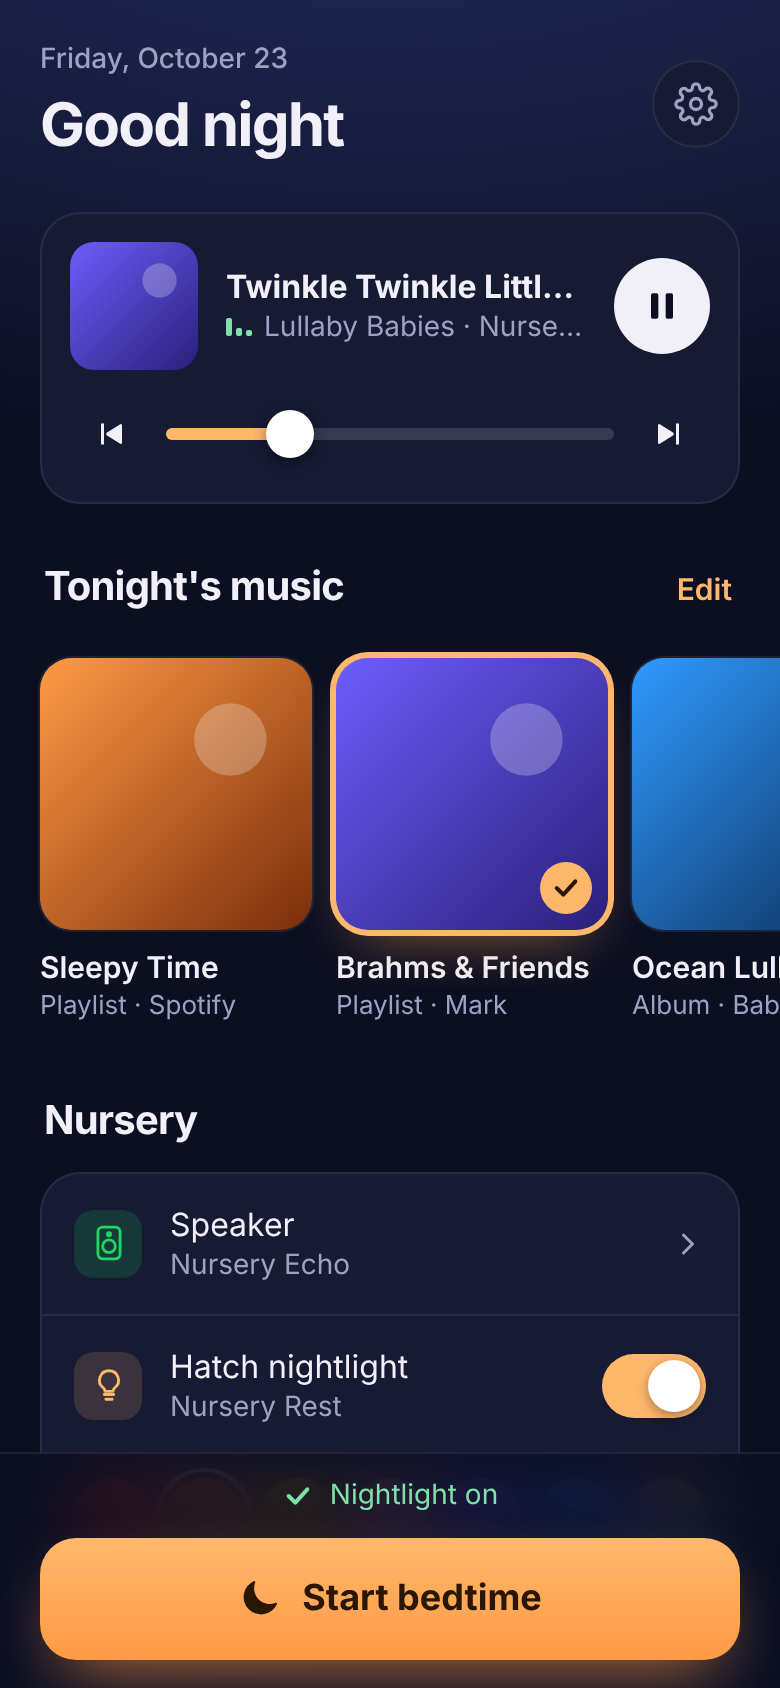
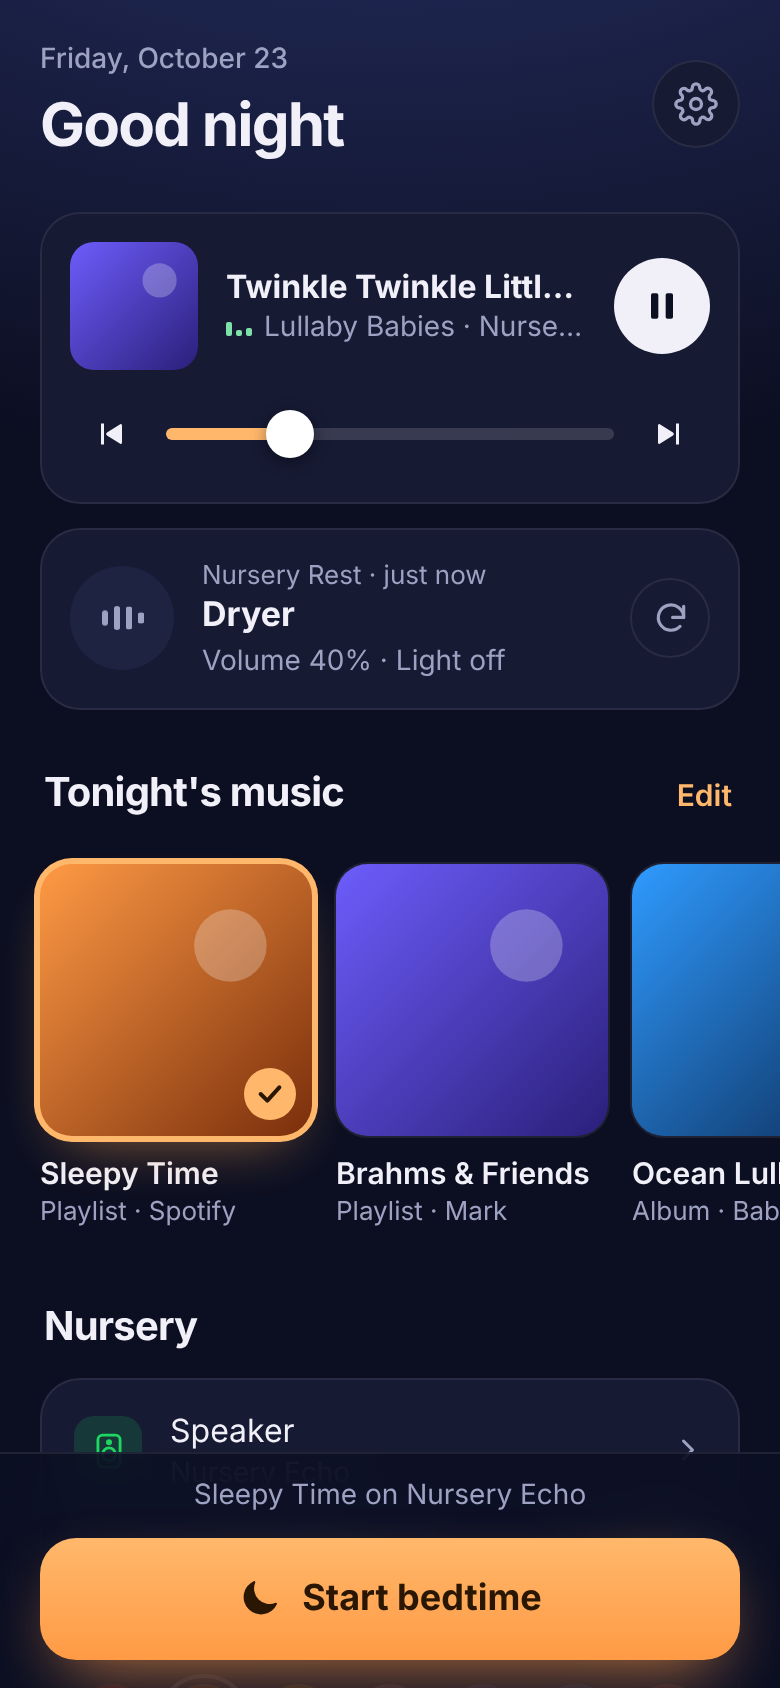
Show what the Hatch is doing right now
New 'On the Hatch' card on the main screen: the current sound by name
(e.g. Dryer) or running favorite, Hatch volume, and whether the light is
on, with a swatch glowing in the light's actual color and brightness.

- hatch_snapshot() reads sound/volume/light for every Hatch model, and
  wait_for_hatch_state() gives the device's state time to arrive.
- GET /api/hatch-status caches each reading for 30 seconds and is
  cleared whenever Bedtime changes the Hatch.
- The page checks on load, every minute while open, after nightlight
  changes, and on demand with the refresh button.

Claude-Session: https://claude.ai/code/session_01GuuoTpx7JYB2ZkyLzjGMQB

diff --git a/ui/index.html b/ui/index.html
@@ -91,6 +91,26 @@
   .controls button svg { width: 18px; height: 18px; }
   .controls input { flex: 1; }
 
+  /* Hatch now */
+  .hatchnow { margin-top: 12px; padding: 14px; display: flex; align-items: center; gap: 14px; }
+  .hn-glow {
+    width: 52px; height: 52px; border-radius: 50%; flex: none; display: grid; place-items: center;
+    background: var(--surface-2); color: var(--muted); transition: background .3s, box-shadow .3s;
+  }
+  .hn-glow svg { width: 24px; height: 24px; }
+  .hn-glow.lit { color: rgba(0, 0, 0, .55); }
+  .hatchnow .meta { flex: 1; min-width: 0; }
+  .hatchnow small { display: block; color: var(--muted); font-size: 13px; }
+  .hatchnow .title { font-weight: 650; font-size: 17px; white-space: nowrap; overflow: hidden; text-overflow: ellipsis; }
+  .hatchnow .sub { color: var(--muted); font-size: 14px; white-space: nowrap; overflow: hidden; text-overflow: ellipsis; }
+  .hatchnow .icon-btn { width: 40px; height: 40px; background: transparent; }
+  .hatchnow .icon-btn svg { width: 19px; height: 19px; }
+  .wave { display: inline-flex; gap: 3px; align-items: center; height: 22px; }
+  .wave i { width: 3px; border-radius: 2px; background: currentColor; animation: wave 1.4s infinite ease-in-out; }
+  .wave i:nth-child(1) { height: 8px; } .wave i:nth-child(2) { height: 16px; animation-delay: .2s; }
+  .wave i:nth-child(3) { height: 22px; animation-delay: .4s; } .wave i:nth-child(4) { height: 12px; animation-delay: .6s; }
+  @keyframes wave { 50% { transform: scaleY(.45); } }
+
   /* Range sliders */
   input[type=range] { -webkit-appearance: none; appearance: none; width: 100%; height: 28px; background: none; }
   input[type=range]::-webkit-slider-runnable-track { height: 6px; border-radius: 6px; background: linear-gradient(90deg, var(--accent) var(--fill, 50%), rgba(255,255,255,.14) var(--fill, 50%)); }
@@ -268,6 +288,16 @@
     </div>
   </section>
 
+  <section class="card hatchnow hidden" id="hatchNow">
+    <div class="hn-glow" id="hnGlow"></div>
+    <div class="meta">
+      <small id="hnLabel">On the Hatch</small>
+      <div class="title" id="hnTitle"></div>
+      <div class="sub" id="hnSub"></div>
+    </div>
+    <button class="icon-btn" id="hnRefresh" aria-label="Check the Hatch again"><svg viewBox="0 0 24 24" fill="none" stroke="currentColor" stroke-width="2" stroke-linecap="round" stroke-linejoin="round"><path d="M20 11a8 8 0 1 0-2.3 5.7"/><path d="M20 4v7h-7"/></svg></button>
+  </section>
+
   <div class="section-head">
     <h2>Tonight's music</h2>
     <button class="text-btn hidden" id="editFavs">Edit</button>
@@ -392,6 +422,7 @@ const store = {
 };
 
 let state = null, hatches = [], editing = false, starting = false;
+let hatchNow = { loading: true }, lastJobBusy = false;
 const prefs = {
   uri: store.get("uri", null),
   speaker: store.get("speaker", null),
@@ -582,7 +613,7 @@ function renderHatches() {
     label.appendChild(el("small", null, h.model));
     const tick = el("span", "tick"); tick.innerHTML = ICONS.check;
     b.append(label, tick);
-    b.onclick = () => { prefs.hatch = h.name; store.set("hatch", h.name); renderHatches(); };
+    b.onclick = () => { prefs.hatch = h.name; store.set("hatch", h.name); renderHatches(); loadHatchNow(true); };
     list.appendChild(b);
   });
 }
@@ -592,6 +623,68 @@ async function loadHatches(refresh) {
   catch (e) { hatches = []; hatches.error = "Couldn't reach the Hatch: " + e.message; }
   renderHatches();
 }
+
+// ---------- what the Hatch is doing ----------
+const BULB_OFF = '<svg viewBox="0 0 24 24" fill="none" stroke="currentColor" stroke-width="1.8" stroke-linecap="round" stroke-linejoin="round"><path d="M9 18h6M10 21h4M12 3a6 6 0 0 0-3.6 10.8c.6.5 1 1.2 1 2V16h5.2v-.2c0-.8.4-1.5 1-2A6 6 0 0 0 12 3z"/></svg>';
+const WAVE = '<span class="wave"><i></i><i></i><i></i><i></i></span>';
+
+function ago(seconds) {
+  const s = Math.max(0, Math.round(Date.now() / 1000 - seconds));
+  return s < 45 ? "just now" : s < 3600 ? `${Math.round(s / 60)} min ago` : "a while ago";
+}
+
+function renderHatchNow() {
+  $("hatchNow").classList.toggle("hidden", !!hatchNow.hidden);
+  const glow = $("hnGlow");
+  glow.className = "hn-glow";
+  glow.style.background = glow.style.boxShadow = "";
+  const h = hatchNow;
+  if (h.loading) {
+    glow.innerHTML = '<span class="spinner"></span>';
+    $("hnLabel").textContent = "On the Hatch";
+    $("hnTitle").textContent = "Checking…";
+    $("hnSub").textContent = "This takes a few seconds";
+    return;
+  }
+  if (h.error) {
+    glow.innerHTML = ICONS.alert;
+    $("hnLabel").textContent = "On the Hatch";
+    $("hnTitle").textContent = "Couldn't reach the Hatch";
+    $("hnSub").textContent = "Tap ↻ to try again";
+    return;
+  }
+  $("hnLabel").textContent = `${h.name} · ${h.online ? ago(h.checked_at) : "offline"}`;
+  if (h.light_on && h.color) {
+    const strength = 0.25 + 0.75 * Math.min(100, h.brightness || 0) / 100;
+    glow.classList.add("lit");
+    glow.style.background = h.color;
+    glow.style.boxShadow = `0 0 ${8 + 26 * strength}px ${h.color}`;
+  }
+  glow.innerHTML = h.playing ? WAVE : BULB_OFF;
+  $("hnTitle").textContent = h.routine || (h.playing ? h.sound : "No sound playing");
+  const parts = [];
+  if (h.routine && h.sound) parts.push(h.sound);
+  if (h.playing && h.volume != null) parts.push(`Volume ${h.volume}%`);
+  if (h.has_light) parts.push(h.light_on ? `Light ${h.brightness}%` : "Light off");
+  $("hnSub").textContent = parts.join(" · ");
+}
+
+async function loadHatchNow(refresh) {
+  if (refresh || !hatchNow.name) { hatchNow = { loading: true }; renderHatchNow(); }
+  try {
+    const q = new URLSearchParams();
+    if (hatchLabel()) q.set("hatch", hatchLabel());
+    if (refresh) q.set("refresh", "1");
+    hatchNow = await api("/api/hatch-status?" + q);
+  } catch (e) {
+    hatchNow = { error: e.message };
+  }
+  renderHatchNow();
+}
+
+$("hnRefresh").onclick = () => loadHatchNow(true);
+setInterval(() => { if (!document.hidden) loadHatchNow(false); }, 60000);
+setInterval(() => { if (hatchNow.checked_at) renderHatchNow(); }, 30000);
 
 // ---------- now playing ----------
 function renderNow() {
@@ -695,6 +788,9 @@ async function loadState() {
   $("connect").classList.toggle("hidden", state.spotify_authed);
   $("logoutForm").classList.toggle("hidden", !state.login_enabled);
   renderFavorites(); renderSpeakers(); renderNow(); renderDock();
+  const busyNow = !!(state.hatch_job && state.hatch_job.busy);
+  if (lastJobBusy && !busyNow) loadHatchNow(true);  // the Hatch just changed
+  lastJobBusy = busyNow;
   schedule();
 }
 
@@ -703,7 +799,7 @@ function schedule() {
   const fast = state && state.hatch_job && (state.hatch_job.busy || Date.now() / 1000 - state.hatch_job.at < 12);
   schedule.t = setTimeout(() => { if (!document.hidden) loadState(); else schedule(); }, fast ? 1500 : 15000);
 }
-document.addEventListener("visibilitychange", () => { if (!document.hidden) { greet(); loadState(); } });
+document.addEventListener("visibilitychange", () => { if (!document.hidden) { greet(); loadState(); loadHatchNow(false); } });
 
 (async function init() {
   greet();
@@ -720,7 +816,9 @@ document.addEventListener("visibilitychange", () => { if (!document.hidden) { gr
   $("brightLabel").textContent = prefs.brightness + "%";
   setFill($("brightness")); setFill($("volume"));
   renderSwatches();
-  loadHatches();
+  renderHatchNow();
+  await loadHatches();
+  loadHatchNow(false);
 })();
 </script>
 </body>

diff --git a/test_hatch_spotify.py b/test_hatch_spotify.py
@@ -130,6 +130,58 @@ class HatchTests(unittest.TestCase):
             hs.find_hatch_device(ds, "garage")
 
 
+class SnapshotTests(unittest.TestCase):
+    def rest_iot(self, **state):
+        d = FakeRestIot()
+        d.is_online, d.current_playing, d.current_id = True, "remote", 0
+        d.sound_id, d.audio_track, d.volume = hs.NO_SOUND_ID, None, 0
+        d.is_light_on, d.red, d.green, d.blue, d.brightness = False, 0, 0, 0, 0
+        d.sounds_by_id = {10127: {"id": 10127, "title": "Dryer"}}
+        d.favorites = [{"id": 7, "name": "Bedtime", "active": True}]
+        for k, v in state.items():
+            setattr(d, k, v)
+        return d
+
+    def test_newer_model_names_the_sound(self):
+        d = self.rest_iot(is_playing=True, sound_id=10127, volume=40)
+        snap = hs.hatch_snapshot(d)
+        self.assertEqual((snap["playing"], snap["sound"], snap["volume"]), (True, "Dryer", 40))
+        self.assertFalse(snap["light_on"])
+        self.assertIsNone(snap["color"])
+
+    def test_light_color_and_brightness(self):
+        d = self.rest_iot(is_light_on=True, red=255, green=106, blue=0, brightness=20)
+        snap = hs.hatch_snapshot(d)
+        self.assertEqual((snap["light_on"], snap["color"], snap["brightness"]), (True, "#ff6a00", 20))
+        self.assertFalse(snap["playing"])
+        self.assertIsNone(snap["sound"])
+
+    def test_running_favorite(self):
+        d = self.rest_iot(current_playing="routine", current_id=7, is_playing=True, sound_id=10127)
+        self.assertEqual(hs.hatch_snapshot(d)["routine"], "Bedtime")
+
+    def test_unknown_sound_falls_back_to_track_name(self):
+        from hatch_rest_api import RIoTAudioTrack
+        d = self.rest_iot(is_playing=True, sound_id=1, audio_track=RIoTAudioTrack.BrownNoise)
+        self.assertEqual(hs.hatch_snapshot(d)["sound"], "Brown Noise")
+
+    def test_rest_plus(self):
+        from hatch_rest_api import RestPlusAudioTrack
+        d = RestPlus()
+        d.is_on, d.is_playing, d.is_online = True, True, True
+        d.audio_track, d.volume = RestPlusAudioTrack.PinkNoise, 55
+        d.red, d.green, d.blue, d.brightness = 0, 0, 255, 30
+        snap = hs.hatch_snapshot(d)
+        self.assertEqual((snap["sound"], snap["volume"], snap["light_on"], snap["color"]),
+                         ("Pink Noise", 55, True, "#0000ff"))
+
+    def test_waits_for_state_to_arrive(self):
+        d = self.rest_iot(is_online=False)
+        with mock.patch.object(hs.time, "sleep", side_effect=lambda _: setattr(d, "is_online", True)) as sleep:
+            hs.wait_for_hatch_state(d)
+        self.assertEqual(sleep.call_count, 1)
+
+
 class CliTests(unittest.TestCase):
     def test_play_args(self):
         args = hs.build_parser().parse_args(

diff --git a/hatch_spotify.py b/hatch_spotify.py
@@ -25,6 +25,7 @@ import asyncio
 import os
 import re
 import sys
+import time
 
 DEFAULT_SPOTIFY_SCOPE = "user-read-playback-state user-modify-playback-state"
 MQTT_FLUSH_SECONDS = 2
@@ -212,6 +213,51 @@ def hatch_nightlight(device, rgb, brightness):
         print(f"Hatch '{device.device_name}': light #{r:02x}{g:02x}{b:02x} at {brightness}%, no Hatch sound")
     else:
         print(f"Hatch '{device.device_name}' ({kind}) has no light; Hatch sound stopped")
+
+
+def wait_for_hatch_state(device, seconds=4):
+    """Give the device's current state a moment to arrive from Hatch's cloud."""
+    deadline = time.time() + seconds
+    while not getattr(device, "is_online", True) and time.time() < deadline:
+        time.sleep(0.2)
+
+
+def hatch_snapshot(device):
+    """What the Hatch is doing right now: sound, volume and light, as plain data."""
+    kind = type(device).__name__
+    playing = bool(getattr(device, "is_playing", False))
+    sound = routine = None
+    track = getattr(device, "audio_track", None)
+    if kind not in ("RestPlus", "RestMini"):
+        if getattr(device, "current_playing", None) == "routine":
+            favorites = getattr(device, "favorites", None) or []
+            match = next((f for f in favorites if f.get("id") == getattr(device, "current_id", None)), None)
+            routine = (match or {}).get("name") or "A Hatch favorite"
+        if playing:
+            info = (getattr(device, "sounds_by_id", None) or {}).get(getattr(device, "sound_id", None)) or {}
+            sound = info.get("title")
+    if playing and not sound:
+        # Enum names like PinkNoise -> "Pink Noise"
+        sound = re.sub(r"(?<=[a-z])(?=[A-Z])", " ", track.name) if track is not None else "A Hatch sound"
+
+    has_light = hasattr(device, "set_color")
+    if kind == "RestPlus":
+        light_on = bool(getattr(device, "is_on", False) and getattr(device, "brightness", 0))
+    else:
+        light_on = bool(getattr(device, "is_light_on", False))
+    rgb = tuple(int(getattr(device, c, 0) or 0) for c in ("red", "green", "blue"))
+    return {
+        "name": device.device_name,
+        "online": bool(getattr(device, "is_online", True)),
+        "playing": playing,
+        "sound": sound,
+        "routine": routine,
+        "volume": getattr(device, "volume", None),
+        "has_light": has_light,
+        "light_on": has_light and light_on,
+        "color": "#%02x%02x%02x" % rgb if light_on else None,
+        "brightness": getattr(device, "brightness", None) if light_on else None,
+    }
 
 
 def hatch_off(device):

diff --git a/hatch_ui.py b/hatch_ui.py
@@ -53,6 +53,7 @@ STATIC_FILES = {
 }
 MAX_FAVORITES = 30
 HATCH_CACHE_SECONDS = 10 * 60
+HATCH_STATUS_SECONDS = 30
 
 MODEL_NAMES = {
     "RestMini": "Rest Mini",
@@ -149,6 +150,7 @@ class App:
         self.favorites_path = favorites_path
         self.favorites_lock = threading.Lock()
         self.hatch_cache = (0, None)  # (fetched at, device list)
+        self.status_cache = {}  # Hatch name -> (fetched at, snapshot)
         # Hatch commands take several seconds, so they run in the background and
         # the page polls this to show progress.
         self.hatch_job = {"busy": False, "ok": None, "message": "", "at": 0}
@@ -159,6 +161,7 @@ class App:
         def work():
             try:
                 run_hatch(action)
+                self.status_cache.clear()  # what's playing just changed
                 self.hatch_job = {"busy": False, "ok": True, "message": done_message, "at": time.time()}
             except Exception as e:
                 if not isinstance(e, hs.ControlError):
@@ -268,6 +271,19 @@ class App:
             self.hatch_cache = (time.time(), devices)
         return devices
 
+    def hatch_status(self, query):
+        name = query.get("hatch") or ""
+        fetched_at, snapshot = self.status_cache.get(name, (0, None))
+        if snapshot is None or query.get("refresh") or time.time() - fetched_at > HATCH_STATUS_SECONDS:
+            def read(ds):
+                device = hs.find_hatch_device(ds, name or None)
+                hs.wait_for_hatch_state(device)
+                return hs.hatch_snapshot(device)
+            snapshot = run_hatch(read)
+            fetched_at = time.time()
+            self.status_cache[name] = (fetched_at, snapshot)
+        return {**snapshot, "checked_at": fetched_at}
+
     def add_favorite(self, body):
         uri = hs.to_spotify_uri((body.get("uri") or "").strip())
         info = self.describe(uri)
@@ -340,6 +356,7 @@ class App:
 ROUTES = {
     ("GET", "/api/state"): "state",
     ("GET", "/api/hatches"): "hatches",
+    ("GET", "/api/hatch-status"): "hatch_status",
     ("POST", "/api/play"): "play",
     ("POST", "/api/stop"): "pause",
     ("POST", "/api/resume"): "resume",

diff --git a/test_hatch_ui.py b/test_hatch_ui.py
@@ -335,3 +335,21 @@ class FeatureTests(unittest.TestCase):
                 time.sleep(0.02)
         self.assertFalse(self.app.hatch_job["ok"])
         self.assertNotIn("socket", self.app.hatch_job["message"])
+
+    def test_hatch_status_is_cached_and_cleared_by_changes(self):
+        calls = []
+        snapshot = {"name": "Nursery", "playing": True, "sound": "Dryer"}
+        with mock.patch.object(hatch_ui, "run_hatch", lambda action: calls.append(1) or snapshot):
+            first = json.loads(self.request("GET", "/api/hatch-status").body)
+            self.assertEqual((first["sound"], len(calls)), ("Dryer", 1))
+            self.assertIn("checked_at", first)
+            self.request("GET", "/api/hatch-status")
+            self.assertEqual(len(calls), 1)
+            self.request("GET", "/api/hatch-status?refresh=1")
+            self.assertEqual(len(calls), 2)
+            self.request("POST", "/api/hatch-off", "{}")
+            for _ in range(50):
+                if not self.app.hatch_job["busy"]:
+                    break
+                time.sleep(0.02)
+            self.assertEqual(self.app.status_cache, {})
